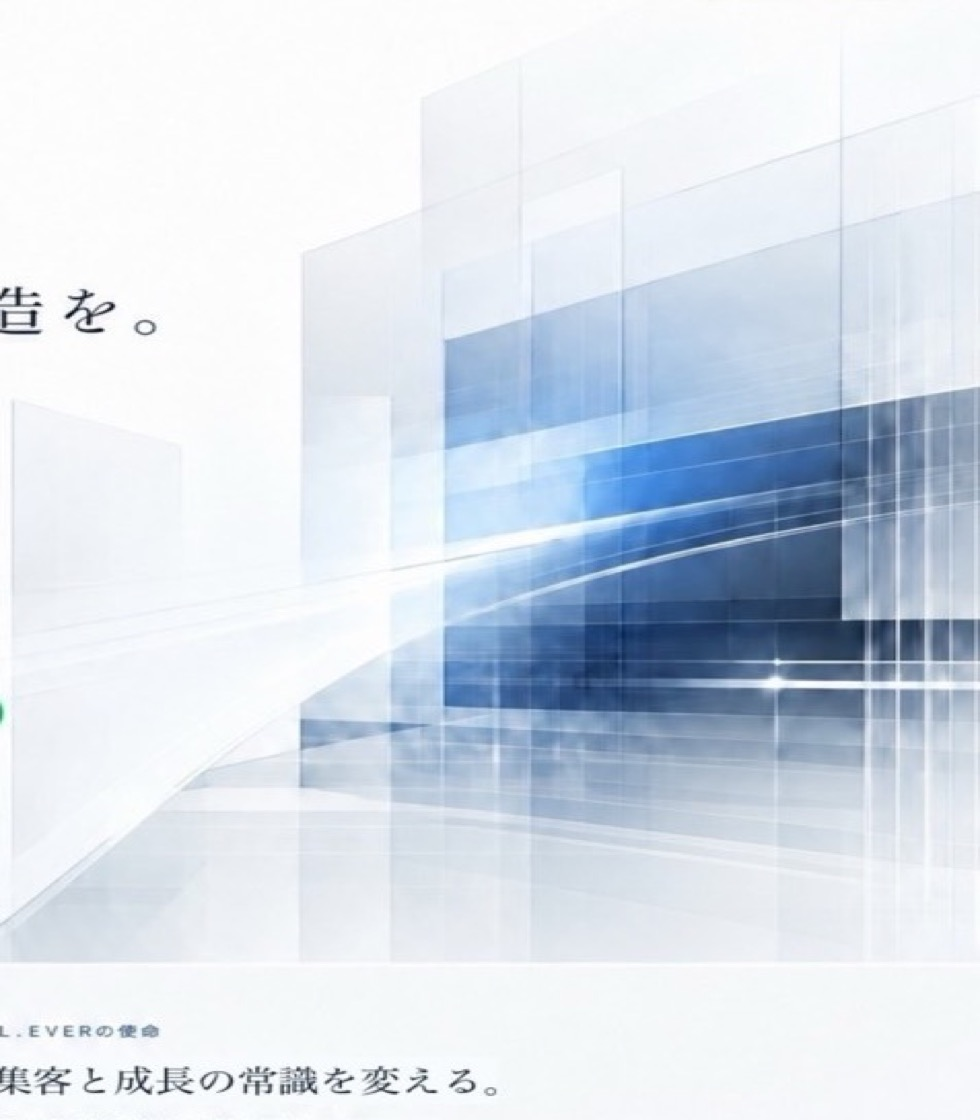
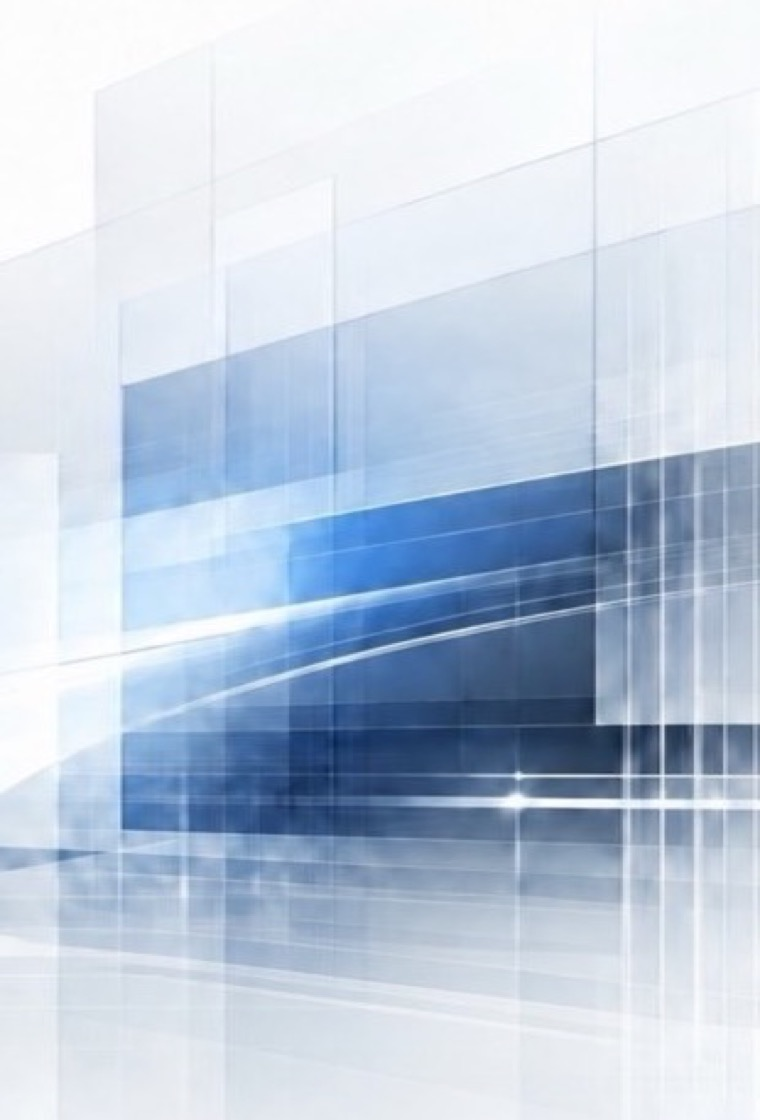
Polish mobile hero patterns and clean extracted background

diff --git a/styles.css b/styles.css
@@ -2565,15 +2565,39 @@ body {
   .pattern-a .hero {
     min-height: auto;
     background:
-      linear-gradient(180deg, rgba(255,255,255,0.98) 0%, rgba(255,255,255,0.88) 46%, rgba(255,255,255,0.98) 100%),
-      url("./assets/hero-architecture-extracted.jpg") center top / 100% auto no-repeat,
+      linear-gradient(180deg, rgba(255,255,255,0.54) 0%, rgba(255,255,255,0.80) 32%, rgba(255,255,255,0.98) 58%, #fff 100%),
+      url("./assets/hero-architecture-extracted.jpg") right 18px top 18px / 84% auto no-repeat,
       linear-gradient(180deg, #f8fcfe 0%, #ffffff 100%);
+  }
+
+  .pattern-a .hero::before {
+    opacity: 0.28;
+    background:
+      linear-gradient(115deg, transparent 0 56%, rgba(20,127,189,0.10) 58%, transparent 72%),
+      repeating-linear-gradient(90deg, transparent 0 70px, rgba(20,127,189,0.045) 71px, transparent 72px);
+  }
+
+  .pattern-a .hero::after {
+    bottom: 9%;
+    opacity: 0.34;
   }
 
   .pattern-a .hero-inner {
     min-height: auto;
-    padding-top: 70px;
-    padding-bottom: 58px;
+    padding-top: 238px;
+    padding-bottom: 52px;
+  }
+
+  .pattern-a .hero h1,
+  .pattern-b .hero h1 {
+    font-size: clamp(34px, 9.8vw, 42px);
+    line-height: 1.34;
+  }
+
+  .pattern-a .hero .lead,
+  .pattern-b .hero .lead {
+    font-size: 15px;
+    line-height: 1.9;
   }
 
   .pattern-b .hero {
@@ -2588,9 +2612,50 @@ body {
     background-size: 100% 100%, 100% 100%, 88px 88px, 112px 112px, 100% 100%, 100% 100%;
   }
 
+  .pattern-b .hero-slideshow {
+    opacity: 0.42;
+  }
+
+  .pattern-b .hero-slideshow::before {
+    inset: -4% -28% 34%;
+    opacity: 0.86;
+  }
+
+  .pattern-b .hero::before {
+    opacity: 0.68;
+  }
+
+  .pattern-b .hero::after {
+    bottom: 10%;
+    opacity: 0.72;
+  }
+
   .pattern-b .hero-inner {
     min-height: auto;
-    padding-top: 70px;
-    padding-bottom: 58px;
+    padding-top: 78px;
+    padding-bottom: 56px;
+  }
+
+  .ai-services-page .page-hero {
+    background:
+      linear-gradient(180deg, rgba(255,255,255,0.62) 0%, rgba(255,255,255,0.88) 36%, rgba(255,255,255,0.99) 62%, #fff 100%),
+      url("./assets/ai-services-graph-extracted.jpg") center top 18px / 94% auto no-repeat,
+      radial-gradient(circle at 20% 28%, rgba(20,127,189,0.18) 0 2px, transparent 3px),
+      radial-gradient(circle at 64% 36%, rgba(115,212,231,0.20) 0 2px, transparent 3px),
+      linear-gradient(180deg, #f8fcfe 0%, #ffffff 100%);
+    background-size: auto, 94% auto, 120px 120px, 150px 150px, 100% 100%;
+  }
+
+  .ai-services-page .page-hero-inner {
+    padding-top: 212px;
+  }
+
+  .ai-services-page .page-hero::before {
+    opacity: 0.64;
+  }
+
+  .ai-services-page .page-hero::after {
+    bottom: 8%;
+    opacity: 0.58;
   }
 }

diff --git a/ai-article-saas.html b/ai-article-saas.html
@@ -1,10 +1,10 @@
 <!doctype html>
 <html lang="ja">
-  <head><meta charset="utf-8" /><meta name="viewport" content="width=device-width, initial-scale=1" /><title>AI記事生成SaaS | SEO記事制作を効率化 | 株式会社L.EVER</title><meta name="description" content="AI記事生成SaaSは、SEOに強い記事作成を効率化し、コンテンツ集客の企画、制作、改善の工数削減を支援するL.EVERのAIサービスです。" /><link rel="canonical" href="https://nblnetwork000-ui.github.io/solar-visit-map/ai-article-saas.html" /><link rel="stylesheet" href="./styles.css?v=human-edit-19" /></head>
+  <head><meta charset="utf-8" /><meta name="viewport" content="width=device-width, initial-scale=1" /><title>AI記事生成SaaS | SEO記事制作を効率化 | 株式会社L.EVER</title><meta name="description" content="AI記事生成SaaSは、SEOに強い記事作成を効率化し、コンテンツ集客の企画、制作、改善の工数削減を支援するL.EVERのAIサービスです。" /><link rel="canonical" href="https://nblnetwork000-ui.github.io/solar-visit-map/ai-article-saas.html" /><link rel="stylesheet" href="./styles.css?v=human-edit-20" /></head>
   <body class="service-detail-page"><header class="site-header"><a class="brand text-brand" href="./index.html"><span>L.EVER</span><small>Inc</small></a><button class="menu-toggle" type="button" aria-label="メニューを開く" aria-controls="site-menu" aria-expanded="false"><span></span><span></span><span></span></button><nav class="nav-tabs" id="site-menu" aria-label="主要ナビゲーション"><a href="./index.html">TOP</a><a href="./service.html">サービス概要</a><a href="./diagnosis.html">無料診断</a><a href="./target.html">導入対象</a><a href="./cases.html">実績</a><a href="./ai-services.html" aria-current="page">その他AIサービス</a><a href="./company.html">会社概要</a></nav><div class="header-actions"><a class="button primary" href="./diagnosis.html">無料診断を申し込む →</a></div></header><div class="menu-backdrop" aria-hidden="true"></div>
     <main>
       <section class="page-hero evidence-visual"><div class="page-hero-inner"><p class="eyebrow">AI Article SaaS</p><h1>SEOに強い記事作成を、最短5分で効率化する。</h1><p class="lead">キーワード、ターゲット、検索意図をもとに、SEO記事の構成案から本文制作までを効率化するAI記事生成サービスです。</p><div class="hero-actions"><a class="button primary" href="./diagnosis.html">無料診断を申し込む →</a><a class="button line" href="https://lin.ee/8pWnGcU" target="_blank" rel="noopener">公式LINEで問い合わせる →</a></div></div></section>
       <section class="section"><div class="section-head"><p class="eyebrow">Value</p><h2>コンテンツ集客の制作負荷を下げ、継続運用できる体制へ。</h2><p>記事制作は継続して初めて資産になります。AI記事生成SaaSは、企画、構成、初稿作成、改善の流れを整え、SEO運用のスピードと品質を両立します。</p></div><div class="grid-4"><article class="card"><div class="icon">01</div><h3>検索意図を整理</h3><p>キーワードごとにユーザーの悩みと記事の役割を整理します。</p></article><article class="card"><div class="icon">02</div><h3>構成案を自動生成</h3><p>見出し構成、導入文、比較軸などを素早く作成します。</p></article><article class="card"><div class="icon">03</div><h3>本文制作を効率化</h3><p>初稿作成の時間を圧縮し、編集と監修に集中できます。</p></article><article class="card"><div class="icon">04</div><h3>改善運用に接続</h3><p>公開後の順位やCV導線を見ながら改善します。</p></article></div></section>
       <section class="section soft"><div class="cta-band"><div><h2>SEO記事を、作って終わりにしない。</h2><p>集客導線と問い合わせ導線まで見据えたコンテンツ運用をご提案します。</p></div><div class="cta-actions"><a class="button primary" href="./diagnosis.html">無料診断を申し込む →</a><a class="button line" href="https://lin.ee/8pWnGcU" target="_blank" rel="noopener">公式LINEで問い合わせる</a></div></div></section>
-    </main><footer class="site-footer"><div><img src="./assets/logo-lever-horizontal-white.svg" alt="L.EVER Inc." /><p>AIとデータの力で、利益が残る未来をつくる。</p><p>0120-399-137</p></div><nav class="footer-nav" aria-label="フッターナビゲーション"><a href="./service.html">サービス概要</a><a href="./diagnosis.html">無料診断</a><a href="./target.html">導入対象</a><a href="./cases.html">実績</a><a href="./ai-services.html">その他AIサービス</a><a href="./company.html">会社概要</a><a href="./privacy.html">プライバシーポリシー</a><a href="./sitemap.html">サイトマップ</a></nav><small>© L.EVER Inc.</small></footer><script src="./assets/site.js?v=human-edit-19" defer></script></body>
+    </main><footer class="site-footer"><div><img src="./assets/logo-lever-horizontal-white.svg" alt="L.EVER Inc." /><p>AIとデータの力で、利益が残る未来をつくる。</p><p>0120-399-137</p></div><nav class="footer-nav" aria-label="フッターナビゲーション"><a href="./service.html">サービス概要</a><a href="./diagnosis.html">無料診断</a><a href="./target.html">導入対象</a><a href="./cases.html">実績</a><a href="./ai-services.html">その他AIサービス</a><a href="./company.html">会社概要</a><a href="./privacy.html">プライバシーポリシー</a><a href="./sitemap.html">サイトマップ</a></nav><small>© L.EVER Inc.</small></footer><script src="./assets/site.js?v=human-edit-20" defer></script></body>
 </html>

diff --git a/ai-efficiency.html b/ai-efficiency.html
@@ -1,10 +1,10 @@
 <!doctype html>
 <html lang="ja">
-  <head><meta charset="utf-8" /><meta name="viewport" content="width=device-width, initial-scale=1" /><title>業務効率化AI | 定型業務を自動化 | 株式会社L.EVER</title><meta name="description" content="業務効率化AIは、社内データ整理、レポート作成、情報検索、定型作業をAIで自動化し、生産性向上を支援するL.EVERのAIサービスです。" /><link rel="canonical" href="https://nblnetwork000-ui.github.io/solar-visit-map/ai-efficiency.html" /><link rel="stylesheet" href="./styles.css?v=human-edit-19" /></head>
+  <head><meta charset="utf-8" /><meta name="viewport" content="width=device-width, initial-scale=1" /><title>業務効率化AI | 定型業務を自動化 | 株式会社L.EVER</title><meta name="description" content="業務効率化AIは、社内データ整理、レポート作成、情報検索、定型作業をAIで自動化し、生産性向上を支援するL.EVERのAIサービスです。" /><link rel="canonical" href="https://nblnetwork000-ui.github.io/solar-visit-map/ai-efficiency.html" /><link rel="stylesheet" href="./styles.css?v=human-edit-20" /></head>
   <body class="service-detail-page"><header class="site-header"><a class="brand text-brand" href="./index.html"><span>L.EVER</span><small>Inc</small></a><button class="menu-toggle" type="button" aria-label="メニューを開く" aria-controls="site-menu" aria-expanded="false"><span></span><span></span><span></span></button><nav class="nav-tabs" id="site-menu" aria-label="主要ナビゲーション"><a href="./index.html">TOP</a><a href="./service.html">サービス概要</a><a href="./diagnosis.html">無料診断</a><a href="./target.html">導入対象</a><a href="./cases.html">実績</a><a href="./ai-services.html" aria-current="page">その他AIサービス</a><a href="./company.html">会社概要</a></nav><div class="header-actions"><a class="button primary" href="./diagnosis.html">無料診断を申し込む →</a></div></header><div class="menu-backdrop" aria-hidden="true"></div>
     <main>
       <section class="page-hero company-visual"><div class="page-hero-inner"><p class="eyebrow">AI Efficiency</p><h1>定型業務をAIで自動化し、生産性を大幅に向上する。</h1><p class="lead">業務効率化AIは、社内データ整理、レポート作成、情報検索、定型作業を自動化し、コア業務へ集中できる環境をつくります。</p><div class="hero-actions"><a class="button primary" href="./diagnosis.html">無料診断を申し込む →</a><a class="button line" href="https://lin.ee/8pWnGcU" target="_blank" rel="noopener">公式LINEで問い合わせる →</a></div></div></section>
       <section class="section"><div class="section-head"><p class="eyebrow">Automation</p><h2>社内の繰り返し作業を、AIで仕組み化する。</h2><p>業務の棚卸しから、AIで置き換えられる作業の整理、運用ルール設計、内製化支援まで伴走します。</p></div><div class="grid-4"><article class="card"><div class="icon">01</div><h3>レポート作成</h3><p>定例レポートや集計作業の作成工数を削減します。</p></article><article class="card"><div class="icon">02</div><h3>情報検索</h3><p>社内資料やナレッジを探しやすくし、確認時間を短縮します。</p></article><article class="card"><div class="icon">03</div><h3>データ整理</h3><p>散らばった情報を整理し、活用しやすい状態に整えます。</p></article><article class="card"><div class="icon">04</div><h3>内製化支援</h3><p>現場で使い続けられるAI活用ルールを設計します。</p></article></div></section>
       <section class="section soft"><div class="cta-band"><div><h2>まずは、AI化できる業務を見つけましょう。</h2><p>現状業務を整理し、費用対効果の高い自動化ポイントをご提案します。</p></div><div class="cta-actions"><a class="button primary" href="./diagnosis.html">無料診断を申し込む →</a><a class="button line" href="https://lin.ee/8pWnGcU" target="_blank" rel="noopener">公式LINEで問い合わせる</a></div></div></section>
-    </main><footer class="site-footer"><div><img src="./assets/logo-lever-horizontal-white.svg" alt="L.EVER Inc." /><p>AIとデータの力で、利益が残る未来をつくる。</p><p>0120-399-137</p></div><nav class="footer-nav" aria-label="フッターナビゲーション"><a href="./service.html">サービス概要</a><a href="./diagnosis.html">無料診断</a><a href="./target.html">導入対象</a><a href="./cases.html">実績</a><a href="./ai-services.html">その他AIサービス</a><a href="./company.html">会社概要</a><a href="./privacy.html">プライバシーポリシー</a><a href="./sitemap.html">サイトマップ</a></nav><small>© L.EVER Inc.</small></footer><script src="./assets/site.js?v=human-edit-19" defer></script></body>
+    </main><footer class="site-footer"><div><img src="./assets/logo-lever-horizontal-white.svg" alt="L.EVER Inc." /><p>AIとデータの力で、利益が残る未来をつくる。</p><p>0120-399-137</p></div><nav class="footer-nav" aria-label="フッターナビゲーション"><a href="./service.html">サービス概要</a><a href="./diagnosis.html">無料診断</a><a href="./target.html">導入対象</a><a href="./cases.html">実績</a><a href="./ai-services.html">その他AIサービス</a><a href="./company.html">会社概要</a><a href="./privacy.html">プライバシーポリシー</a><a href="./sitemap.html">サイトマップ</a></nav><small>© L.EVER Inc.</small></footer><script src="./assets/site.js?v=human-edit-20" defer></script></body>
 </html>

diff --git a/ai-sales-support.html b/ai-sales-support.html
@@ -1,10 +1,10 @@
 <!doctype html>
 <html lang="ja">
-  <head><meta charset="utf-8" /><meta name="viewport" content="width=device-width, initial-scale=1" /><title>AI営業支援 | 受注確度と次の一手を可視化 | 株式会社L.EVER</title><meta name="description" content="AI営業支援は、見込み顧客の行動データを分析し、受注確度、優先順位、次の営業アクションを可視化するL.EVERのAIサービスです。" /><link rel="canonical" href="https://nblnetwork000-ui.github.io/solar-visit-map/ai-sales-support.html" /><link rel="stylesheet" href="./styles.css?v=human-edit-19" /></head>
+  <head><meta charset="utf-8" /><meta name="viewport" content="width=device-width, initial-scale=1" /><title>AI営業支援 | 受注確度と次の一手を可視化 | 株式会社L.EVER</title><meta name="description" content="AI営業支援は、見込み顧客の行動データを分析し、受注確度、優先順位、次の営業アクションを可視化するL.EVERのAIサービスです。" /><link rel="canonical" href="https://nblnetwork000-ui.github.io/solar-visit-map/ai-sales-support.html" /><link rel="stylesheet" href="./styles.css?v=human-edit-20" /></head>
   <body class="service-detail-page"><header class="site-header"><a class="brand text-brand" href="./index.html"><span>L.EVER</span><small>Inc</small></a><button class="menu-toggle" type="button" aria-label="メニューを開く" aria-controls="site-menu" aria-expanded="false"><span></span><span></span><span></span></button><nav class="nav-tabs" id="site-menu" aria-label="主要ナビゲーション"><a href="./index.html">TOP</a><a href="./service.html">サービス概要</a><a href="./diagnosis.html">無料診断</a><a href="./target.html">導入対象</a><a href="./cases.html">実績</a><a href="./ai-services.html" aria-current="page">その他AIサービス</a><a href="./company.html">会社概要</a></nav><div class="header-actions"><a class="button primary" href="./diagnosis.html">無料診断を申し込む →</a></div></header><div class="menu-backdrop" aria-hidden="true"></div>
     <main>
       <section class="page-hero target-visual"><div class="page-hero-inner"><p class="eyebrow">AI Sales Support</p><h1>顧客行動データを分析し、受注確度と次の一手を可視化する。</h1><p class="lead">AI営業支援は、問い合わせ後の対応、商談優先順位、追客タイミングを整理し、営業成果の最大化を支援します。</p><div class="hero-actions"><a class="button primary" href="./diagnosis.html">無料診断を申し込む →</a><a class="button line" href="https://lin.ee/8pWnGcU" target="_blank" rel="noopener">公式LINEで問い合わせる →</a></div></div></section>
       <section class="section"><div class="section-head"><p class="eyebrow">Method</p><h2>勘ではなく、データをもとに営業判断を揃える。</h2><p>問い合わせ、資料閲覧、反応履歴、商談状況などを整理し、営業担当者が次に取るべきアクションを明確にします。</p></div><div class="grid-3"><article class="card"><div class="icon">01</div><h3>受注確度スコア化</h3><p>顧客行動や属性をもとに、優先度の高い見込み顧客を見極めます。</p></article><article class="card"><div class="icon">02</div><h3>追客タイミング設計</h3><p>商談化しやすいタイミングとアプローチ内容を整理します。</p></article><article class="card"><div class="icon">03</div><h3>営業ナレッジ共有</h3><p>属人的な判断を減らし、チーム全体で営業品質を揃えます。</p></article></div></section>
       <section class="section soft"><div class="cta-band"><div><h2>営業の次の一手を、見える化する。</h2><p>現状の営業フローを確認し、AIで改善できるポイントをご提案します。</p></div><div class="cta-actions"><a class="button primary" href="./diagnosis.html">無料診断を申し込む →</a><a class="button line" href="https://lin.ee/8pWnGcU" target="_blank" rel="noopener">公式LINEで問い合わせる</a></div></div></section>
-    </main><footer class="site-footer"><div><img src="./assets/logo-lever-horizontal-white.svg" alt="L.EVER Inc." /><p>AIとデータの力で、利益が残る未来をつくる。</p><p>0120-399-137</p></div><nav class="footer-nav" aria-label="フッターナビゲーション"><a href="./service.html">サービス概要</a><a href="./diagnosis.html">無料診断</a><a href="./target.html">導入対象</a><a href="./cases.html">実績</a><a href="./ai-services.html">その他AIサービス</a><a href="./company.html">会社概要</a><a href="./privacy.html">プライバシーポリシー</a><a href="./sitemap.html">サイトマップ</a></nav><small>© L.EVER Inc.</small></footer><script src="./assets/site.js?v=human-edit-19" defer></script></body>
+    </main><footer class="site-footer"><div><img src="./assets/logo-lever-horizontal-white.svg" alt="L.EVER Inc." /><p>AIとデータの力で、利益が残る未来をつくる。</p><p>0120-399-137</p></div><nav class="footer-nav" aria-label="フッターナビゲーション"><a href="./service.html">サービス概要</a><a href="./diagnosis.html">無料診断</a><a href="./target.html">導入対象</a><a href="./cases.html">実績</a><a href="./ai-services.html">その他AIサービス</a><a href="./company.html">会社概要</a><a href="./privacy.html">プライバシーポリシー</a><a href="./sitemap.html">サイトマップ</a></nav><small>© L.EVER Inc.</small></footer><script src="./assets/site.js?v=human-edit-20" defer></script></body>
 </html>

diff --git a/ai-services.html b/ai-services.html
@@ -1,9 +1,9 @@
 <!doctype html>
 <html lang="ja">
-  <head><meta charset="utf-8" /><meta name="viewport" content="width=device-width, initial-scale=1" /><title>その他AIサービス | 株式会社L.EVER</title><meta name="description" content="FormX、AI記事生成SaaS、AI営業支援、業務効率化AIなど、株式会社L.EVERが提供するAIサービス一覧です。" /><link rel="canonical" href="https://nblnetwork000-ui.github.io/solar-visit-map/ai-services.html" /><link rel="stylesheet" href="./styles.css?v=human-edit-19" /></head>
+  <head><meta charset="utf-8" /><meta name="viewport" content="width=device-width, initial-scale=1" /><title>その他AIサービス | 株式会社L.EVER</title><meta name="description" content="FormX、AI記事生成SaaS、AI営業支援、業務効率化AIなど、株式会社L.EVERが提供するAIサービス一覧です。" /><link rel="canonical" href="https://nblnetwork000-ui.github.io/solar-visit-map/ai-services.html" /><link rel="stylesheet" href="./styles.css?v=human-edit-20" /></head>
   <body class="ai-services-page"><header class="site-header"><a class="brand text-brand" href="./index.html"><span>L.EVER</span><small>Inc</small></a><button class="menu-toggle" type="button" aria-label="メニューを開く" aria-controls="site-menu" aria-expanded="false"><span></span><span></span><span></span></button><nav class="nav-tabs" id="site-menu" aria-label="主要ナビゲーション"><a href="./index.html">TOP</a><a href="./service.html">サービス概要</a><a href="./diagnosis.html">無料診断</a><a href="./target.html">導入対象</a><a href="./cases.html">実績</a><a href="./ai-services.html" aria-current="page">その他AIサービス</a><a href="./company.html">会社概要</a></nav><div class="header-actions"><a class="button primary" href="./diagnosis.html">無料診断を申し込む →</a></div></header><div class="menu-backdrop" aria-hidden="true"></div>
     <main><section class="page-hero"><div class="page-hero-inner"><p class="eyebrow">AI Services</p><h1>その他AIサービス</h1><p class="lead">L.EVERは、営業・マーケティング・業務領域を横断する多彩なAIサービスで、貴社の成長を支援します。</p></div></section>
       <section class="section"><div class="section-head"><h2>事業の可能性を広げる、L.EVERのAIサービス</h2><p>データとAIの力で、営業・マーケティング・業務プロセスを進化させる各種サービスをご提供。貴社の課題に合わせて、最適なソリューションをご活用いただけます。</p></div><div class="grid-2"><article class="card service-card"><div class="icon">□</div><h3>FormX</h3><strong class="service-emphasis">1日で6,000件送付、返信率3%で営業成果を加速</strong><p>AIが問い合わせフォーム営業を自動化。リスト作成から送信・追客までを一気通貫で実行し、見込み顧客との接点を最大化します。</p><a class="card-link" href="./formx.html">サービスを見る →</a></article><article class="card service-card"><div class="icon">✎</div><h3>AI記事生成SaaS</h3><strong class="service-emphasis">SEOに強い高品質記事を、最短5分で自動生成</strong><p>キーワードを入力するだけで、SEOに最適化された記事を自動生成。コンテンツ制作の工数を削減し、集客力を高めます。</p><a class="card-link" href="./ai-article-saas.html">サービスを見る →</a></article><article class="card service-card"><div class="icon">◎</div><h3>AI営業支援</h3><strong class="service-emphasis">受注確度を予測し、最適な一手を提示</strong><p>見込み顧客の行動データを解析し、受注確度をスコア化。最適なアプローチをレコメンドし、営業成果を最大化します。</p><a class="card-link" href="./ai-sales-support.html">サービスを見る →</a></article><article class="card service-card"><div class="icon">⚙</div><h3>業務効率化AI</h3><strong class="service-emphasis">定型業務を自動化し、生産性を大幅に向上</strong><p>社内データ整理、レポート作成、情報検索などの定型業務をAIが自動化。コア業務に集中できる環境を実現します。</p><a class="card-link" href="./ai-efficiency.html">サービスを見る →</a></article></div></section>
       <section class="section soft"><div class="cta-band"><div><h2>L.EVERのコアサービスは「L.EVER Profit Compass」です</h2><p>その他AIサービスは、営業・マーケティング・業務領域を補完し、企業の成長を加速させるためのソリューションとして提供しています。</p></div><div class="cta-actions"><a class="button primary" href="./service.html">詳しく見る →</a><a class="button line" href="https://lin.ee/8pWnGcU" target="_blank" rel="noopener">公式LINEで問い合わせる</a></div></div></section>
-    </main><footer class="site-footer"><div><img src="./assets/logo-lever-horizontal-white.svg" alt="L.EVER Inc." /><p>AIとデータの力で、利益が残る未来をつくる。</p><p>0120-399-137</p></div><nav class="footer-nav" aria-label="フッターナビゲーション"><a href="./service.html">サービス概要</a><a href="./diagnosis.html">無料診断</a><a href="./target.html">導入対象</a><a href="./cases.html">実績</a><a href="./ai-services.html">その他AIサービス</a><a href="./company.html">会社概要</a><a href="./privacy.html">プライバシーポリシー</a><a href="./sitemap.html">サイトマップ</a></nav><small>© L.EVER Inc.</small></footer><script src="./assets/site.js?v=human-edit-19" defer></script></body>
+    </main><footer class="site-footer"><div><img src="./assets/logo-lever-horizontal-white.svg" alt="L.EVER Inc." /><p>AIとデータの力で、利益が残る未来をつくる。</p><p>0120-399-137</p></div><nav class="footer-nav" aria-label="フッターナビゲーション"><a href="./service.html">サービス概要</a><a href="./diagnosis.html">無料診断</a><a href="./target.html">導入対象</a><a href="./cases.html">実績</a><a href="./ai-services.html">その他AIサービス</a><a href="./company.html">会社概要</a><a href="./privacy.html">プライバシーポリシー</a><a href="./sitemap.html">サイトマップ</a></nav><small>© L.EVER Inc.</small></footer><script src="./assets/site.js?v=human-edit-20" defer></script></body>
 </html>

diff --git a/cases.html b/cases.html
@@ -1,11 +1,11 @@
 <!doctype html>
 <html lang="ja">
-  <head><meta charset="utf-8" /><meta name="viewport" content="width=device-width, initial-scale=1" /><title>実績 | AI動画によるLP流入の実測データ | 株式会社L.EVER</title><meta name="description" content="L.EVERのAI動画施策によるLP流入、問い合わせ、CV改善の実測データを掲載しています。" /><link rel="canonical" href="https://nblnetwork000-ui.github.io/solar-visit-map/cases.html" /><link rel="stylesheet" href="./styles.css?v=human-edit-19" /></head>
+  <head><meta charset="utf-8" /><meta name="viewport" content="width=device-width, initial-scale=1" /><title>実績 | AI動画によるLP流入の実測データ | 株式会社L.EVER</title><meta name="description" content="L.EVERのAI動画施策によるLP流入、問い合わせ、CV改善の実測データを掲載しています。" /><link rel="canonical" href="https://nblnetwork000-ui.github.io/solar-visit-map/cases.html" /><link rel="stylesheet" href="./styles.css?v=human-edit-20" /></head>
   <body class="cases-page"><header class="site-header"><a class="brand text-brand" href="./index.html"><span>L.EVER</span><small>Inc</small></a><button class="menu-toggle" type="button" aria-label="メニューを開く" aria-controls="site-menu" aria-expanded="false"><span></span><span></span><span></span></button><nav class="nav-tabs" id="site-menu" aria-label="主要ナビゲーション"><a href="./index.html">TOP</a><a href="./service.html">サービス概要</a><a href="./diagnosis.html">無料診断</a><a href="./target.html">導入対象</a><a href="./cases.html" aria-current="page">実績</a><a href="./ai-services.html">その他AIサービス</a><a href="./company.html">会社概要</a></nav><div class="header-actions"><a class="button primary" href="./diagnosis.html">無料診断を申し込む →</a></div></header><div class="menu-backdrop" aria-hidden="true"></div>
     <main><section class="page-hero evidence-visual"><div class="page-hero-inner"><p class="eyebrow">Evidence</p><h1>AI動画によるLP流入の実測データ</h1><p class="lead">L.EVERのAI動画サービスをご導入いただいた企業様における、LP流入・CV改善データをご紹介します。</p><p>※掲載数値は特定の1事例における実測データであり、成果を保証するものではありません。</p></div></section>
       <section class="section"><div class="section-head"><h2>1ヶ月の実績サマリー</h2><p>動画広告とLP改善を組み合わせたプロモーション施策における、実際の1ヶ月間の参考データです。</p></div><div class="grid-4 metrics"><article class="card"><span>動画総再生数</span><strong>877,000</strong><em>前月比 +286%</em></article><article class="card"><span>LP表示数</span><strong>2,881</strong><em>前月比 +154%</em></article><article class="card"><span>新規ユーザー数</span><strong>943</strong><em>前月比 +121%</em></article><article class="card"><span>問い合わせ数</span><strong>128</strong><em>前月比 +162%</em></article><article class="card"><span>問い合わせ単価（CPA）</span><strong>-42%</strong><em>前月比 -42%</em></article><article class="card"><span>LTV（顧客生涯価値）</span><strong>+187%</strong><em>前月比 +187%</em></article><article class="card"><span>視聴完了率</span><strong>38%</strong><em>前月比 +9pt</em></article><article class="card"><span>LPコンバージョン率</span><strong>4.45%</strong><em>前月比 +1.28pt</em></article></div><p class="metric-note">※ 上記はL.EVERのAI動画を活用したプロモーション施策の、実際の1ヶ月間の実測データです。</p></section>
       <section class="section soft"><div class="split"><div class="plain-list"><article><h3>業種</h3><p>BtoB SaaS</p></article><article><h3>施策内容</h3><p>AI動画広告によるLP誘導・CV最適化</p></article><article><h3>目的</h3><p>資料請求・問い合わせの最大化</p></article></div><figure class="graph-card"><img src="./assets/evidence-graph.svg" alt="AI動画施策によるLP表示数、問い合わせ数の推移グラフ" /></figure></div></section>
       <section class="section"><div class="section-head"><h2>その他の支援事例</h2></div><div class="grid-3"><article class="card case-mini"><h3>ITサービス（SaaS）</h3><span>リード獲得数</span><strong>+231%</strong><span>CPA</span><strong>-38%</strong><p>動画広告とLP最適化でリード数が大幅増加。</p></article><article class="card case-mini"><h3>人材サービス</h3><span>問い合わせ数</span><strong>+178%</strong><span>CVR</span><strong>+2.1pt</strong><p>AI動画の活用で問い合わせ数が大幅増加。</p></article><article class="card case-mini"><h3>教育サービス</h3><span>資料請求数</span><strong>+203%</strong><span>視聴完了率</span><strong>41%</strong><p>ストーリー設計の最適化で完了率が向上。</p></article></div></section>
       <section class="section"><div class="cta-band"><div><h2>自社の集客構造も、数字で確認しませんか。</h2><p>実測データをもとに、改善余地と優先順位を診断します。</p></div><div class="cta-actions"><a class="button primary" href="./diagnosis.html">無料診断を申し込む →</a><a class="button line" href="https://lin.ee/8pWnGcU" target="_blank" rel="noopener">公式LINEで問い合わせる</a></div></div></section>
-    </main><footer class="site-footer"><div><img src="./assets/logo-lever-horizontal-white.svg" alt="L.EVER Inc." /><p>AIとデータの力で、利益が残る未来をつくる。</p><p>0120-399-137</p></div><nav class="footer-nav" aria-label="フッターナビゲーション"><a href="./service.html">サービス概要</a><a href="./diagnosis.html">無料診断</a><a href="./target.html">導入対象</a><a href="./cases.html">実績</a><a href="./ai-services.html">その他AIサービス</a><a href="./company.html">会社概要</a><a href="./privacy.html">プライバシーポリシー</a><a href="./sitemap.html">サイトマップ</a></nav><small>© L.EVER Inc.</small></footer><script src="./assets/site.js?v=human-edit-19" defer></script></body>
+    </main><footer class="site-footer"><div><img src="./assets/logo-lever-horizontal-white.svg" alt="L.EVER Inc." /><p>AIとデータの力で、利益が残る未来をつくる。</p><p>0120-399-137</p></div><nav class="footer-nav" aria-label="フッターナビゲーション"><a href="./service.html">サービス概要</a><a href="./diagnosis.html">無料診断</a><a href="./target.html">導入対象</a><a href="./cases.html">実績</a><a href="./ai-services.html">その他AIサービス</a><a href="./company.html">会社概要</a><a href="./privacy.html">プライバシーポリシー</a><a href="./sitemap.html">サイトマップ</a></nav><small>© L.EVER Inc.</small></footer><script src="./assets/site.js?v=human-edit-20" defer></script></body>
 </html>

diff --git a/company.html b/company.html
@@ -1,9 +1,9 @@
 <!doctype html>
 <html lang="ja">
-  <head><meta charset="utf-8" /><meta name="viewport" content="width=device-width, initial-scale=1" /><title>会社概要 | 株式会社L.EVER</title><meta name="description" content="株式会社L.EVERの会社概要。所在地、代表者、電話番号、設立、資本金、事業内容を掲載しています。" /><link rel="canonical" href="https://nblnetwork000-ui.github.io/solar-visit-map/company.html" /><link rel="stylesheet" href="./styles.css?v=human-edit-19" /></head>
+  <head><meta charset="utf-8" /><meta name="viewport" content="width=device-width, initial-scale=1" /><title>会社概要 | 株式会社L.EVER</title><meta name="description" content="株式会社L.EVERの会社概要。所在地、代表者、電話番号、設立、資本金、事業内容を掲載しています。" /><link rel="canonical" href="https://nblnetwork000-ui.github.io/solar-visit-map/company.html" /><link rel="stylesheet" href="./styles.css?v=human-edit-20" /></head>
   <body><header class="site-header"><a class="brand text-brand" href="./index.html"><span>L.EVER</span><small>Inc</small></a><button class="menu-toggle" type="button" aria-label="メニューを開く" aria-controls="site-menu" aria-expanded="false"><span></span><span></span><span></span></button><nav class="nav-tabs" id="site-menu" aria-label="主要ナビゲーション"><a href="./index.html">TOP</a><a href="./service.html">サービス概要</a><a href="./diagnosis.html">無料診断</a><a href="./target.html">導入対象</a><a href="./cases.html">実績</a><a href="./ai-services.html">その他AIサービス</a><a href="./company.html" aria-current="page">会社概要</a></nav><div class="header-actions"><a class="button primary" href="./diagnosis.html">無料診断を申し込む →</a></div></header><div class="menu-backdrop" aria-hidden="true"></div>
     <main><section class="page-hero company-visual"><div class="page-hero-inner"><h1>会社概要</h1><p class="lead">株式会社L.EVERは、AIとデータの力で、企業の成長と持続可能な未来を支援します。</p></div></section>
       <section class="section"><dl class="company-table"><div><dt>会社名</dt><dd>株式会社L.EVER</dd></div><div><dt>所在地</dt><dd>〒156-0057 東京都世田谷区上北沢4-12-8 2F</dd></div><div><dt>代表者</dt><dd>大山暁広</dd></div><div><dt>電話番号</dt><dd>0120-399-137</dd></div><div><dt>設立</dt><dd>2025年3月</dd></div><div><dt>資本金</dt><dd>1000万円</dd></div><div><dt>事業内容</dt><dd>AIコンサルティング／システム開発支援、AIプロダクト開発・運用支援、AI導入支援、データ分析／データ基盤構築支援、生成AI活用支援／研修・内製化支援</dd></div><div><dt>お問い合わせ</dt><dd><a href="./diagnosis.html">無料診断フォーム</a> または <a href="https://lin.ee/8pWnGcU" target="_blank" rel="noopener">公式LINE</a> よりお問い合わせください。</dd></div></dl></section>
       <section class="section soft"><div class="cta-band"><div><h2>無料診断をお試しください</h2><p>AI活用の第一歩は、現状の可視化から。貴社に最適なアクションプランをご提案します。</p></div><div class="cta-actions"><a class="button primary" href="./diagnosis.html">無料診断を申し込む →</a><a class="button line" href="https://lin.ee/8pWnGcU" target="_blank" rel="noopener">公式LINEで問い合わせる</a></div></div></section>
-    </main><footer class="site-footer"><div><img src="./assets/logo-lever-horizontal-white.svg" alt="L.EVER Inc." /></div><nav class="footer-nav" aria-label="フッターナビゲーション"><a href="./service.html">サービス概要</a><a href="./diagnosis.html">無料診断</a><a href="./privacy.html">プライバシーポリシー</a><a href="./sitemap.html">サイトマップ</a></nav><small>© L.EVER Inc.</small></footer><script src="./assets/site.js?v=human-edit-19" defer></script></body>
+    </main><footer class="site-footer"><div><img src="./assets/logo-lever-horizontal-white.svg" alt="L.EVER Inc." /></div><nav class="footer-nav" aria-label="フッターナビゲーション"><a href="./service.html">サービス概要</a><a href="./diagnosis.html">無料診断</a><a href="./privacy.html">プライバシーポリシー</a><a href="./sitemap.html">サイトマップ</a></nav><small>© L.EVER Inc.</small></footer><script src="./assets/site.js?v=human-edit-20" defer></script></body>
 </html>

diff --git a/diagnosis.html b/diagnosis.html
@@ -1,6 +1,6 @@
 <!doctype html>
 <html lang="ja">
-  <head><meta charset="utf-8" /><meta name="viewport" content="width=device-width, initial-scale=1" /><title>無料診断のお申し込み | 株式会社L.EVER</title><meta name="description" content="株式会社L.EVERの無料診断申し込みページです。AI集客支援の導入前に、貴社の集客構造、LP、広告、CV導線を確認します。" /><link rel="canonical" href="https://nblnetwork000-ui.github.io/solar-visit-map/diagnosis.html" /><link rel="stylesheet" href="./styles.css?v=human-edit-19" /></head>
+  <head><meta charset="utf-8" /><meta name="viewport" content="width=device-width, initial-scale=1" /><title>無料診断のお申し込み | 株式会社L.EVER</title><meta name="description" content="株式会社L.EVERの無料診断申し込みページです。AI集客支援の導入前に、貴社の集客構造、LP、広告、CV導線を確認します。" /><link rel="canonical" href="https://nblnetwork000-ui.github.io/solar-visit-map/diagnosis.html" /><link rel="stylesheet" href="./styles.css?v=human-edit-20" /></head>
   <body class="diagnosis-page">
     <header class="site-header"><a class="brand text-brand" href="./index.html"><span>L.EVER</span><small>Inc</small></a><button class="menu-toggle" type="button" aria-label="メニューを開く" aria-controls="site-menu" aria-expanded="false"><span></span><span></span><span></span></button><nav class="nav-tabs" id="site-menu" aria-label="主要ナビゲーション"><a href="./index.html">TOP</a><a href="./service.html">サービス概要</a><a href="./diagnosis.html" aria-current="page">無料診断</a><a href="./target.html">導入対象</a><a href="./cases.html">実績</a><a href="./ai-services.html">その他AIサービス</a><a href="./company.html">会社概要</a></nav><div class="header-actions"><a class="button primary" href="./diagnosis.html">無料診断を申し込む →</a></div></header><div class="menu-backdrop" aria-hidden="true"></div>
     <main>
@@ -21,5 +21,5 @@
     </main>
     <footer class="site-footer"><div><img src="./assets/logo-lever-horizontal-white.svg" alt="L.EVER Inc." /></div><nav class="footer-nav" aria-label="フッターナビゲーション"><a href="./service.html">サービス概要</a><a href="./target.html">導入対象</a><a href="./cases.html">実績</a><a href="./company.html">会社概要</a></nav><small>© L.EVER Inc.</small></footer>
     <script src="./site.js" defer></script>
-  <script src="./assets/site.js?v=human-edit-19" defer></script></body>
+  <script src="./assets/site.js?v=human-edit-20" defer></script></body>
 </html>

diff --git a/formx.html b/formx.html
@@ -1,11 +1,11 @@
 <!doctype html>
 <html lang="ja">
-  <head><meta charset="utf-8" /><meta name="viewport" content="width=device-width, initial-scale=1" /><title>FormX | AIフォーム営業自動化 | 株式会社L.EVER</title><meta name="description" content="FormXは、問い合わせフォーム営業をAIで自動化し、リスト作成から送信、返信管理、追客までを支援するL.EVERのAI営業サービスです。" /><link rel="canonical" href="https://nblnetwork000-ui.github.io/solar-visit-map/formx.html" /><link rel="stylesheet" href="./styles.css?v=human-edit-19" /></head>
+  <head><meta charset="utf-8" /><meta name="viewport" content="width=device-width, initial-scale=1" /><title>FormX | AIフォーム営業自動化 | 株式会社L.EVER</title><meta name="description" content="FormXは、問い合わせフォーム営業をAIで自動化し、リスト作成から送信、返信管理、追客までを支援するL.EVERのAI営業サービスです。" /><link rel="canonical" href="https://nblnetwork000-ui.github.io/solar-visit-map/formx.html" /><link rel="stylesheet" href="./styles.css?v=human-edit-20" /></head>
   <body class="service-detail-page"><header class="site-header"><a class="brand text-brand" href="./index.html"><span>L.EVER</span><small>Inc</small></a><button class="menu-toggle" type="button" aria-label="メニューを開く" aria-controls="site-menu" aria-expanded="false"><span></span><span></span><span></span></button><nav class="nav-tabs" id="site-menu" aria-label="主要ナビゲーション"><a href="./index.html">TOP</a><a href="./service.html">サービス概要</a><a href="./diagnosis.html">無料診断</a><a href="./target.html">導入対象</a><a href="./cases.html">実績</a><a href="./ai-services.html" aria-current="page">その他AIサービス</a><a href="./company.html">会社概要</a></nav><div class="header-actions"><a class="button primary" href="./diagnosis.html">無料診断を申し込む →</a></div></header><div class="menu-backdrop" aria-hidden="true"></div>
     <main>
       <section class="page-hero diagnosis-visual"><div class="page-hero-inner"><p class="eyebrow">FormX</p><h1>フォーム営業をAIで自動化し、営業接点を増やす。</h1><p class="lead">FormXは、リスト作成からフォーム送信、返信管理、追客までを一気通貫で支援するAIフォーム営業サービスです。</p><div class="hero-actions"><a class="button primary" href="./diagnosis.html">無料診断を申し込む →</a><a class="button line" href="https://lin.ee/8pWnGcU" target="_blank" rel="noopener">公式LINEで問い合わせる →</a></div><div class="tag-row"><span>1日6,000件送付</span><span>返信率3%目安</span><span>BtoB営業</span></div></div></section>
       <section class="section"><div class="section-head"><p class="eyebrow">Overview</p><h2>営業リスト作成から追客まで、フォーム営業の工数を圧縮。</h2><p>手作業では時間がかかるフォーム営業を、AIと運用設計で仕組み化します。商材やターゲットに合わせて送信先、文面、追客の流れを設計し、営業活動の初速を高めます。</p></div><div class="grid-3"><article class="card"><div class="icon">01</div><h3>ターゲットリスト作成</h3><p>業種、地域、企業規模などの条件に合わせて、営業候補リストを整理します。</p></article><article class="card"><div class="icon">02</div><h3>AI文面・送信運用</h3><p>商材に合わせた訴求文を設計し、フォーム送信の運用を効率化します。</p></article><article class="card"><div class="icon">03</div><h3>返信管理・追客</h3><p>返信内容を整理し、見込み度に応じた次のアクションへつなげます。</p></article></div></section>
       <section class="section soft"><div class="section-head"><p class="eyebrow">Fit</p><h2>こんな企業に向いています</h2></div><div class="grid-2"><ul class="check-list"><li>新規商談数を増やしたいBtoB企業</li><li>営業リスト作成や初回接触に時間がかかっている</li><li>広告以外のアウトバウンド導線を作りたい</li></ul><ul class="check-list"><li>フォーム営業を属人化させず継続運用したい</li><li>返信後の営業対応まで整理したい</li><li>短期間で接点数を増やしたい</li></ul></div></section>
       <section class="section"><div class="cta-band dark"><div><h2>フォーム営業を、再現性ある営業導線へ。</h2><p>まずは商材とターゲットを確認し、FormXが適しているか診断します。</p></div><div class="cta-actions"><a class="button secondary" href="./diagnosis.html">無料診断を申し込む →</a><a class="button line" href="https://lin.ee/8pWnGcU" target="_blank" rel="noopener">公式LINEで問い合わせる</a></div></div></section>
-    </main><footer class="site-footer"><div><img src="./assets/logo-lever-horizontal-white.svg" alt="L.EVER Inc." /><p>AIとデータの力で、利益が残る未来をつくる。</p><p>0120-399-137</p></div><nav class="footer-nav" aria-label="フッターナビゲーション"><a href="./service.html">サービス概要</a><a href="./diagnosis.html">無料診断</a><a href="./target.html">導入対象</a><a href="./cases.html">実績</a><a href="./ai-services.html">その他AIサービス</a><a href="./company.html">会社概要</a><a href="./privacy.html">プライバシーポリシー</a><a href="./sitemap.html">サイトマップ</a></nav><small>© L.EVER Inc.</small></footer><script src="./assets/site.js?v=human-edit-19" defer></script></body>
+    </main><footer class="site-footer"><div><img src="./assets/logo-lever-horizontal-white.svg" alt="L.EVER Inc." /><p>AIとデータの力で、利益が残る未来をつくる。</p><p>0120-399-137</p></div><nav class="footer-nav" aria-label="フッターナビゲーション"><a href="./service.html">サービス概要</a><a href="./diagnosis.html">無料診断</a><a href="./target.html">導入対象</a><a href="./cases.html">実績</a><a href="./ai-services.html">その他AIサービス</a><a href="./company.html">会社概要</a><a href="./privacy.html">プライバシーポリシー</a><a href="./sitemap.html">サイトマップ</a></nav><small>© L.EVER Inc.</small></footer><script src="./assets/site.js?v=human-edit-20" defer></script></body>
 </html>

diff --git a/index.html b/index.html
@@ -14,7 +14,7 @@
     <meta property="og:url" content="https://nblnetwork000-ui.github.io/solar-visit-map/" />
     <meta property="og:image" content="https://nblnetwork000-ui.github.io/solar-visit-map/assets/hero-architecture.jpg" />
     <meta name="twitter:card" content="summary_large_image" />
-    <link rel="stylesheet" href="./styles.css?v=human-edit-19" />
+    <link rel="stylesheet" href="./styles.css?v=human-edit-20" />
     <script type="application/ld+json">
       {
         "@context": "https://schema.org",
@@ -111,5 +111,5 @@
       <nav class="footer-nav" aria-label="フッターナビゲーション"><a href="./service.html">サービス概要</a><a href="./diagnosis.html">無料診断</a><a href="./target.html">導入対象</a><a href="./cases.html">実績</a><a href="./ai-services.html">その他AIサービス</a><a href="./company.html">会社概要</a><a href="./privacy.html">プライバシーポリシー</a><a href="./sitemap.html">サイトマップ</a></nav>
       <small>© L.EVER Inc.</small>
     </footer>
-  <script src="./assets/site.js?v=human-edit-19" defer></script></body>
+  <script src="./assets/site.js?v=human-edit-20" defer></script></body>
 </html>

diff --git a/pattern-a.html b/pattern-a.html
@@ -14,7 +14,7 @@
     <meta property="og:url" content="https://nblnetwork000-ui.github.io/solar-visit-map/" />
     <meta property="og:image" content="https://nblnetwork000-ui.github.io/solar-visit-map/assets/hero-architecture.jpg" />
     <meta name="twitter:card" content="summary_large_image" />
-    <link rel="stylesheet" href="./styles.css?v=human-edit-19" />
+    <link rel="stylesheet" href="./styles.css?v=human-edit-20" />
     <script type="application/ld+json">
       {
         "@context": "https://schema.org",
@@ -111,5 +111,5 @@
       <nav class="footer-nav" aria-label="フッターナビゲーション"><a href="./service.html">サービス概要</a><a href="./diagnosis.html">無料診断</a><a href="./target.html">導入対象</a><a href="./cases.html">実績</a><a href="./ai-services.html">その他AIサービス</a><a href="./company.html">会社概要</a><a href="./privacy.html">プライバシーポリシー</a><a href="./sitemap.html">サイトマップ</a></nav>
       <small>© L.EVER Inc.</small>
     </footer>
-  <script src="./assets/site.js?v=human-edit-19" defer></script></body>
+  <script src="./assets/site.js?v=human-edit-20" defer></script></body>
 </html>

diff --git a/pattern-b.html b/pattern-b.html
@@ -14,7 +14,7 @@
     <meta property="og:url" content="https://nblnetwork000-ui.github.io/solar-visit-map/" />
     <meta property="og:image" content="https://nblnetwork000-ui.github.io/solar-visit-map/assets/hero-architecture.jpg" />
     <meta name="twitter:card" content="summary_large_image" />
-    <link rel="stylesheet" href="./styles.css?v=human-edit-19" />
+    <link rel="stylesheet" href="./styles.css?v=human-edit-20" />
     <script type="application/ld+json">
       {
         "@context": "https://schema.org",
@@ -111,5 +111,5 @@
       <nav class="footer-nav" aria-label="フッターナビゲーション"><a href="./service.html">サービス概要</a><a href="./diagnosis.html">無料診断</a><a href="./target.html">導入対象</a><a href="./cases.html">実績</a><a href="./ai-services.html">その他AIサービス</a><a href="./company.html">会社概要</a><a href="./privacy.html">プライバシーポリシー</a><a href="./sitemap.html">サイトマップ</a></nav>
       <small>© L.EVER Inc.</small>
     </footer>
-  <script src="./assets/site.js?v=human-edit-19" defer></script></body>
+  <script src="./assets/site.js?v=human-edit-20" defer></script></body>
 </html>